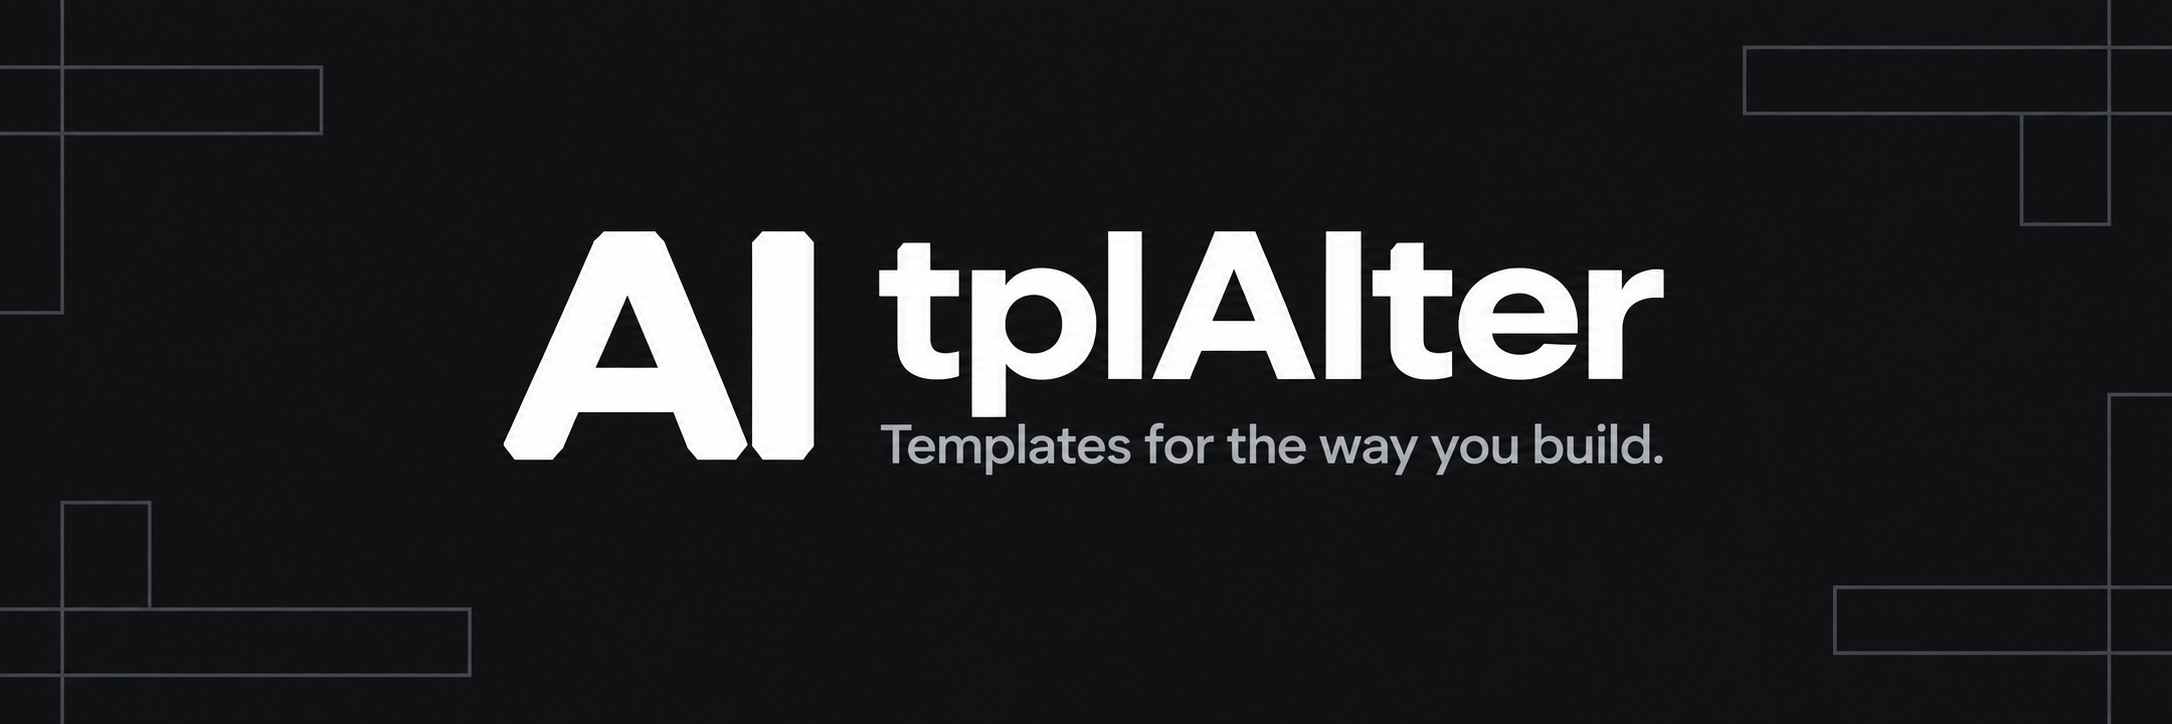
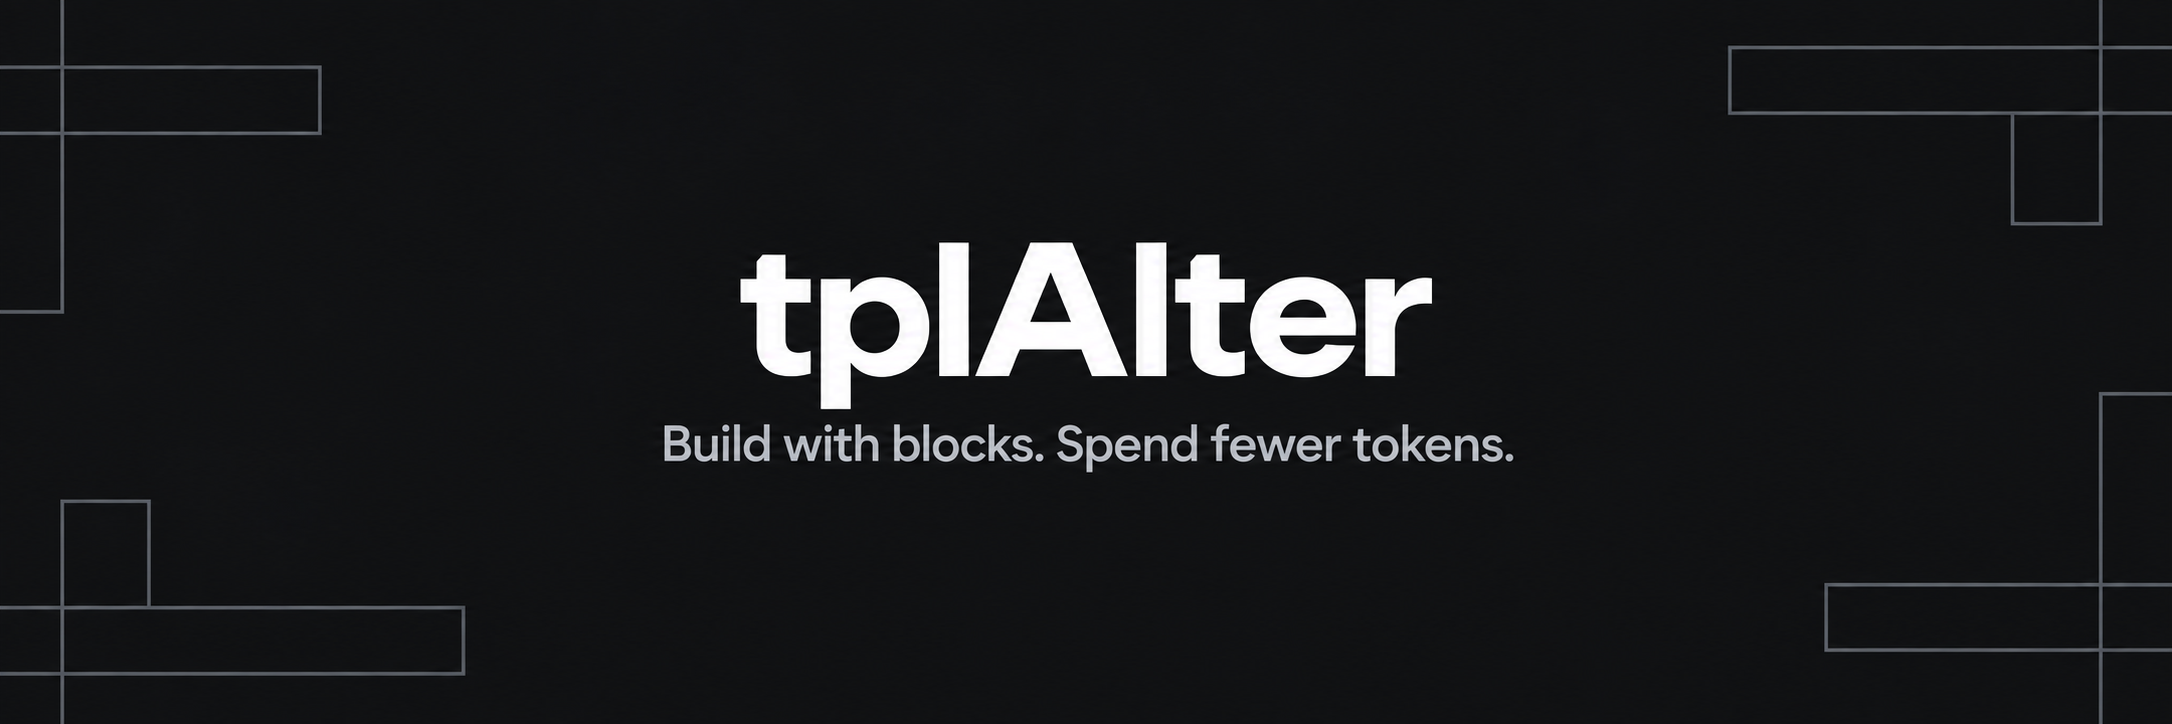
Add MIT licensing, ownership and MCP product branding

diff --git a/profile/README.md b/profile/README.md
@@ -1,13 +1,28 @@
 <p align="center">
-  <img src="https://raw.githubusercontent.com/tplAIter/.github/main/assets/banner.png" alt="tplAIter — Templates for the way you build." width="100%">
+  <img src="https://raw.githubusercontent.com/tplAIter/.github/main/assets/banner.png?v=20260928" alt="tplAIter — Build with blocks. Spend fewer tokens." width="100%">
 </p>
 
-<p align="center"><strong>Composable templates for AI-assisted development.</strong></p>
+<p align="center"><strong>Reviewable template blocks for AI-assisted product development.</strong></p>
 <p align="center">Development preview · Private preview repositories</p>
 
-tplAIter brings reusable project templates and AI configuration into a shared development workflow. Built around a Go-native engine, it is designed for projects across languages and frameworks.
+tplAIter is being built around a simple idea: an AI agent should choose
+parameterized logic and code blocks through MCP instead of retyping boilerplate.
+The resulting project shape stays visible, reviewable, and useful to both local
+or budget-conscious models and frontier models working on harder product work.
+Smaller models can select verified blocks and parameters with focused context;
+frontier models can focus more of their context on product logic. Typed
+structures and a consistent architecture keep the result straightforward to
+review.
 
-Start with a versioned template, adapt it to your project, and keep a path back to the template as both evolve. The focus is the whole template lifecycle: project creation, configuration, updates, and understanding local changes.
+The intended flow is intent → MCP request → selected template blocks →
+validation. It is a development direction: the current repositories are private
+previews, and live lifecycle adapters are not yet complete.
+
+Evaluation target, not a measured result: 30% fewer coding and retrieval
+tokens. Reliability and maintainability are qualitative goals pending a defined
+evaluation.
+
+Licensed under the [MIT License](https://github.com/tplAIter/.github/blob/main/LICENSE).
 
 | Component | Focus | Availability |
 | :--- | :--- | :--- |
